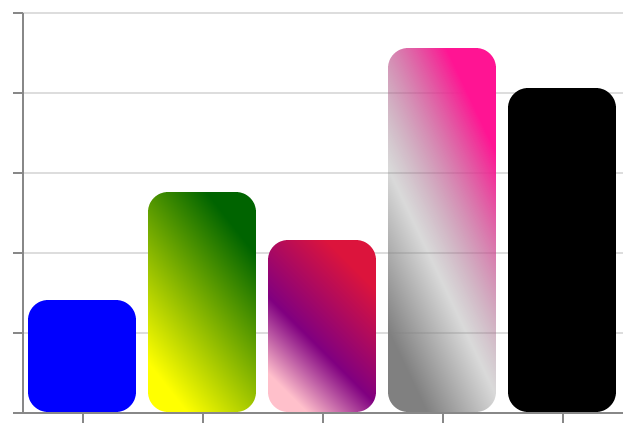
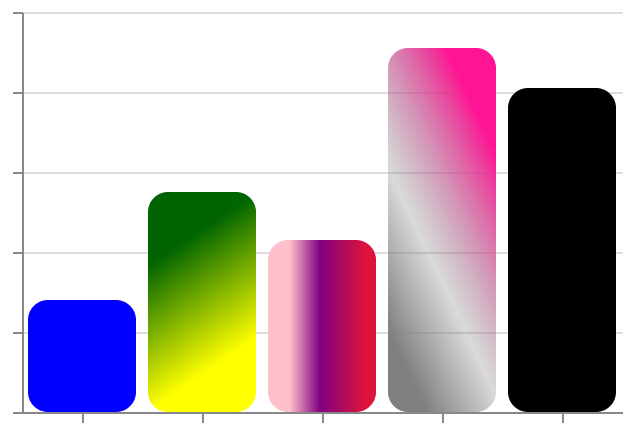
Move gradient control points to texture so that they can vary per gradient.

Changed region(s): [[0.2104, 0.4194, 0.6013, 0.9585]]

diff --git a/sg2d-wgpu/src/marks/gradient_rect.rs b/sg2d-wgpu/src/marks/gradient_rect.rs
@@ -1,70 +1,33 @@
-use colorgrad::Color;
-use image::Rgba;
 use crate::canvas::CanvasDimensions;
 use crate::marks::texture_instanced_mark::{InstancedTextureMarkBatch, TextureInstancedMarkShader};
+use colorgrad::Color;
+use image::Rgba;
 use itertools::izip;
 use sg2d::marks::rect::RectMark;
 use sg2d::marks::value::{ColorOrGradient, Gradient, GradientStop};
 use wgpu::{Extent3d, VertexBufferLayout};
 
-const GRADIENT_NONE: f32 = 0.0;
 const GRADIENT_LINEAR: f32 = 1.0;
 const GRADIENT_RADIAL: f32 = 2.0;
+
+const COLORWAY_LENGTH: u32 = 250;
+const GRADIENT_TEXTURE_WIDTH: u32 = 256;
+const GRADIENT_TEXTURE_HEIGHT: u32 = 256;
 
 #[repr(C)]
 #[derive(Copy, Clone, Debug, bytemuck::Pod, bytemuck::Zeroable)]
 pub struct GradientRectUniform {
     pub size: [f32; 2],
     pub scale: f32,
-    pub gradient_type: f32,
-    pub x0: f32,
-    pub y0: f32,
-    pub x1: f32,
-    pub y1: f32,
-    pub r0: f32,
-    pub r1: f32,
-    _pad: [f32; 2], // Pad to 16 bytes
+    _pad: [f32; 1], // Pad to 16 bytes
 }
 
 impl GradientRectUniform {
-    pub fn new(dimensions: CanvasDimensions, gradient: Option<Gradient>) -> Self {
-        match gradient {
-            None => Self {
-                size: dimensions.size,
-                scale: dimensions.scale,
-                gradient_type: GRADIENT_NONE,
-                x0: 0.0,
-                y0: 0.0,
-                x1: 0.0,
-                y1: 0.0,
-                r0: 0.0,
-                r1: 0.0,
-                _pad: [0.0, 0.0],
-            },
-            Some(Gradient::LinearGradient(gradient)) => Self {
-                size: dimensions.size,
-                scale: dimensions.scale,
-                gradient_type: GRADIENT_LINEAR,
-                x0: gradient.x0,
-                y0: gradient.y0,
-                x1: gradient.x1,
-                y1: gradient.y1,
-                r0: 0.0,
-                r1: 0.0,
-                _pad: [0.0, 0.0],
-            },
-            Some(Gradient::RadialGradient(gradient)) => Self {
-                size: dimensions.size,
-                scale: dimensions.scale,
-                gradient_type: GRADIENT_RADIAL,
-                x0: gradient.x0,
-                y0: gradient.y0,
-                x1: gradient.x1,
-                y1: gradient.y1,
-                r0: gradient.r0,
-                r1: gradient.r1,
-                _pad: [0.0, 0.0],
-            },
+    pub fn new(dimensions: CanvasDimensions) -> Self {
+        Self {
+            size: dimensions.size,
+            scale: dimensions.scale,
+            _pad: [0.0],
         }
     }
 }
@@ -112,56 +75,125 @@ const INSTANCE_ATTRIBUTES: [wgpu::VertexAttribute; 7] = wgpu::vertex_attr_array!
 ];
 
 impl GradientRectInstance {
-    pub fn from_spec(mark: &RectMark) -> (Vec<GradientRectInstance>, Option<Gradient>, image::RgbaImage) {
+    pub fn from_spec(mark: &RectMark) -> (Vec<GradientRectInstance>, image::RgbaImage) {
         let mut instances: Vec<GradientRectInstance> = Vec::new();
-        let mut gradient: Option<Gradient> = None;
         let mut stops: Vec<Vec<GradientStop>> = Vec::new();
-        let tex_width = 256;
-        let tex_height= 256;
-        let mut img = image::RgbaImage::new(tex_width, tex_height);
+        let mut img = image::RgbaImage::new(GRADIENT_TEXTURE_WIDTH, GRADIENT_TEXTURE_HEIGHT);
 
         let mut compute_color = |color_or_gradient: &ColorOrGradient| -> [f32; 4] {
             match color_or_gradient {
                 ColorOrGradient::Color(c) => *c,
                 ColorOrGradient::Gradient(grad) => {
-                    gradient = Some(grad.clone());
+                    // gradient = Some(grad.clone());
                     let s = grad.stops();
-                    let pos = if let Some(pos) = stops.iter().position(|stop| stop.as_slice() == s) {
+                    let pos = if let Some(pos) = stops.iter().position(|stop| stop.as_slice() == s)
+                    {
                         // Already have stops, store index
                         pos
                     } else {
                         // Add stops
                         let pos = stops.len();
-                        assert!(pos < (tex_height / 2) as usize, "Exceeded max number of supported gradient colorways");
+                        assert!(
+                            pos < (GRADIENT_TEXTURE_HEIGHT / 2) as usize,
+                            "Exceeded max number of unique gradients"
+                        );
+                        let row0 = (pos * 2) as u32;
 
+                        // Build gradient colorway using colorgrad
                         let mut binding = colorgrad::CustomGradient::new();
-
                         let offsets = s.iter().map(|stop| stop.offset as f64).collect::<Vec<_>>();
-                        let colors = s.iter().map(
-                            |stop| Color::new(stop.color[0] as f64, stop.color[1] as f64, stop.color[2] as f64, stop.color[3] as f64),
-                        ).collect::<Vec<_>>();
+                        let colors = s
+                            .iter()
+                            .map(|stop| {
+                                Color::new(
+                                    stop.color[0] as f64,
+                                    stop.color[1] as f64,
+                                    stop.color[2] as f64,
+                                    stop.color[3] as f64,
+                                )
+                            })
+                            .collect::<Vec<_>>();
 
                         let builder = binding.domain(offsets.as_slice()).colors(colors.as_slice());
                         let b = builder.build().unwrap();
 
-                        let row0 = (pos * 2) as u32;
-                        for i in 0..tex_width {
-                            let p = (i as f64) / 255.0;
-                            let c= b.at(p).to_rgba8();
+                        // Fill leading pixels with start color so that linear interpolation doesn't pick
+                        // up the empty pixels between control pixels and gradient pixels
+                        let start_color = Rgba::from(b.at(0.0).to_rgba8());
+                        let col_offset = GRADIENT_TEXTURE_WIDTH - COLORWAY_LENGTH;
+                        for i in 0..col_offset {
+                            img.put_pixel(i, row0, start_color);
+                            img.put_pixel(i, row0 + 1, start_color);
+                        }
+
+                        // Store 250-bin colorway in pixels 6 through 255
+                        for i in 0..COLORWAY_LENGTH {
+                            let p = (i as f64) / (COLORWAY_LENGTH as f64 - 1.0);
+                            let c = b.at(p).to_rgba8();
 
                             // Write color to row0 and row0 + 1
-                            img.put_pixel(i, row0, Rgba::from(c));
-                            img.put_pixel(i, row0 + 1, Rgba::from(c));
+                            img.put_pixel(i + col_offset, row0, Rgba::from(c));
+                            img.put_pixel(i + col_offset, row0 + 1, Rgba::from(c));
                         }
+
+                        // We encode the gradient control points in the first two or three pixels of the texture
+                        match grad {
+                            Gradient::LinearGradient(grad) => {
+                                // Write gradient type to column 0
+                                let control_color0 =
+                                    Rgba::from([(GRADIENT_LINEAR * 255.0) as u8, 0, 0, 0]);
+                                img.put_pixel(0, row0, control_color0);
+                                img.put_pixel(0, row0 + 1, control_color0);
+
+                                // Write x/y control points to column 1
+                                let control_color1 = Rgba::from([
+                                    (grad.x0 * 255.0) as u8,
+                                    (grad.y0 * 255.0) as u8,
+                                    (grad.x1 * 255.0) as u8,
+                                    (grad.y1 * 255.0) as u8,
+                                ]);
+                                img.put_pixel(1, row0, control_color1);
+                                img.put_pixel(1, row0 + 1, control_color1);
+                            }
+                            Gradient::RadialGradient(grad) => {
+                                // Write gradient type to column 0
+                                let control_color0 =
+                                    Rgba::from([(GRADIENT_RADIAL * 255.0) as u8, 0, 0, 0]);
+                                img.put_pixel(0, row0, control_color0);
+                                img.put_pixel(0, row0 + 1, control_color0);
+
+                                // Write x/y control points to column 1
+                                let control_color1 = Rgba::from([
+                                    (grad.x0 * 255.0) as u8,
+                                    (grad.y0 * 255.0) as u8,
+                                    (grad.x1 * 255.0) as u8,
+                                    (grad.y1 * 255.0) as u8,
+                                ]);
+                                img.put_pixel(1, row0, control_color1);
+                                img.put_pixel(1, row0 + 1, control_color1);
+
+                                // Write radius control points to column 2
+                                let control_color2 = Rgba::from([
+                                    (grad.r0 * 255.0) as u8,
+                                    (grad.r1 * 255.0) as u8,
+                                    0,
+                                    0,
+                                ]);
+                                img.put_pixel(2, row0, control_color2);
+                                img.put_pixel(2, row0 + 1, control_color2);
+                            }
+                        };
 
                         stops.push(Vec::from(s));
                         pos
                     };
-                    // Each gradient stops colorscale is written to two rows, starting an texture
-                    // coordinate 0. This results in 128 gradients stored in 256x256 texture. To
+
+                    // Each gradient colorway is written to two rows, starting at texture
+                    // y-coordinate 0. This results in 128 gradients stored in a 256x256 texture. To
                     // avoid interpolation artifacts, we compute the texture coordinate as the
                     // position between the two rows
-                    let grad_coord = (pos as f32 / 128.0) + 1.0 / 512.0;
+                    let grad_coord =
+                        (pos as f32 / 128.0) + 1.0 / (GRADIENT_TEXTURE_HEIGHT as f32 * 2.0);
                     [-grad_coord, 0.0, 0.0, 0.0]
                 }
             }
@@ -189,7 +221,7 @@ impl GradientRectInstance {
                 corner_radius: *corner_radius,
             })
         }
-        (instances, gradient, img)
+        (instances, img)
     }
 }
 
@@ -207,7 +239,7 @@ pub struct GradientRectShader {
 
 impl GradientRectShader {
     pub fn from_rect_mark(mark: &RectMark, dimensions: CanvasDimensions) -> Self {
-        let (instances, gradient, img) = GradientRectInstance::from_spec(mark);
+        let (instances, img) = GradientRectInstance::from_spec(mark);
 
         let batches = vec![InstancedTextureMarkBatch {
             instances_range: 0..instances.len() as u32,
@@ -237,7 +269,7 @@ impl GradientRectShader {
                 height: 256,
                 depth_or_array_layers: 1,
             },
-            uniform: GradientRectUniform::new(dimensions, gradient),
+            uniform: GradientRectUniform::new(dimensions),
             shader: include_str!("gradient_rect.wgsl").to_string(),
             vertex_entry_point: "vs_main".to_string(),
             fragment_entry_point: "fs_main".to_string(),

diff --git a/sg2d-wgpu/src/marks/texture_instanced_mark.rs b/sg2d-wgpu/src/marks/texture_instanced_mark.rs
@@ -106,13 +106,23 @@ impl TextureInstancedMarkRenderer {
         let texture_view = texture.create_view(&wgpu::TextureViewDescriptor::default());
 
         // Create sampler
-        let sampler = device.create_sampler(&wgpu::SamplerDescriptor {
+        let linear_sampler = device.create_sampler(&wgpu::SamplerDescriptor {
             address_mode_u: wgpu::AddressMode::ClampToEdge,
             address_mode_v: wgpu::AddressMode::ClampToEdge,
             address_mode_w: wgpu::AddressMode::ClampToEdge,
-            mag_filter: mark_shader.mag_filter(),
-            min_filter: mark_shader.min_filter(),
-            mipmap_filter: mark_shader.mipmap_filter(),
+            mag_filter: wgpu::FilterMode::Linear,
+            min_filter: wgpu::FilterMode::Linear,
+            mipmap_filter: wgpu::FilterMode::Nearest,
+            ..Default::default()
+        });
+
+        let nearest_sampler = device.create_sampler(&wgpu::SamplerDescriptor {
+            address_mode_u: wgpu::AddressMode::ClampToEdge,
+            address_mode_v: wgpu::AddressMode::ClampToEdge,
+            address_mode_w: wgpu::AddressMode::ClampToEdge,
+            mag_filter: wgpu::FilterMode::Nearest,
+            min_filter: wgpu::FilterMode::Nearest,
+            mipmap_filter: wgpu::FilterMode::Nearest,
             ..Default::default()
         });
 
@@ -138,6 +148,12 @@ impl TextureInstancedMarkRenderer {
                         ty: wgpu::BindingType::Sampler(wgpu::SamplerBindingType::Filtering),
                         count: None,
                     },
+                    wgpu::BindGroupLayoutEntry {
+                        binding: 2,
+                        visibility: wgpu::ShaderStages::FRAGMENT,
+                        ty: wgpu::BindingType::Sampler(wgpu::SamplerBindingType::Filtering),
+                        count: None,
+                    },
                 ],
                 label: Some("texture_bind_group_layout"),
             });
@@ -151,7 +167,11 @@ impl TextureInstancedMarkRenderer {
                 },
                 wgpu::BindGroupEntry {
                     binding: 1,
-                    resource: wgpu::BindingResource::Sampler(&sampler),
+                    resource: wgpu::BindingResource::Sampler(&linear_sampler),
+                },
+                wgpu::BindGroupEntry {
+                    binding: 2,
+                    resource: wgpu::BindingResource::Sampler(&nearest_sampler),
                 },
             ],
             label: Some("texture_bind_group"),
